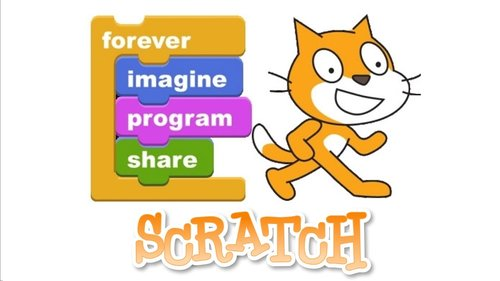
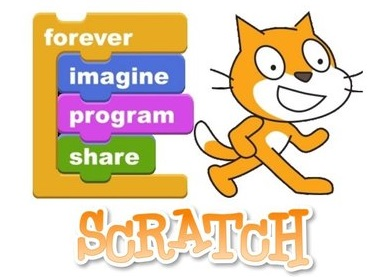
Overall optimization to dynamic website. Headers changed, scratchImage resized, other changes

diff --git a/infoSite/templates/classes.html b/infoSite/templates/classes.html
@@ -3,8 +3,9 @@
 {% block body %}
     <h1 class="pageTitle">Classes</h1>
     <div id="classHeader">
-        <p>Right now we are providing three classes, their descriptions are below.
+        <p id="classDescription">Right now we are providing three classes, their descriptions are below.
         </p>
+
         <ul id="infolist">
             <li>All classes are offered for ages 11-14</li>
             <li>Classes will take place on Mondays and Wednesdays from July 18th to August 3rd
@@ -19,19 +20,9 @@
                     <li>Drawing: 3:00 pm to 4:20 pm</li>
                 </ul>
             </li>
-
         </ul>
     </div>
     <div id="classList">
-        <div id="PremierePro" class="classItemWrap">
-            <h1 class="classItemTitle">Film Making</h1>
-            <div class="classItem">
-                <img src="{% static 'resources/clapperopen.png' %}" alt="open clapperboard" class="classImage">
-                 <p>
-                    Have you ever wanted to be a superhero? With Premiere Pro you can be! In this course you will learn the basics of Premiere Pro, including keyframes, masking, and special effects. In addition to learning about the digital side of filmmaking, we will also explore the practical side, using miniatures, gravity, and green screens to our advantage. The course will culminate with you making a visual effects shot with any superpower of your choosing.
-                 </p>
-             </div>
-        </div>
         <div class="classItemWrap">
             <h1 class="classItemTitle">Coding</h1>
              <div class="classItem">
@@ -46,6 +37,16 @@
              </div>
 
         </div>
+        <div id="PremierePro" class="classItemWrap">
+            <h1 class="classItemTitle">Film Making</h1>
+            <div class="classItem">
+                <img src="{% static 'resources/clapperopen.png' %}" alt="open clapperboard" class="classImage">
+                 <p>
+                    Have you ever wanted to be a superhero? With Premiere Pro you can be! In this course you will learn the basics of Premiere Pro, including keyframes, masking, and special effects. In addition to learning about the digital side of filmmaking, we will also explore the practical side, using miniatures, gravity, and green screens to our advantage. The course will culminate with you making a visual effects shot with any superpower of your choosing.
+                 </p>
+             </div>
+        </div>
+
         <div class="classItemWrap">
             <h1 class="classItemTitle">Art</h1>
              <div class="classItem">

diff --git a/infoSite/static/styles/about-us.css b/infoSite/static/styles/about-us.css
@@ -1,20 +1,20 @@
 /*ABOUT US PAGE*/
 .pageTitle {
     text-align: center;
-    font-size:12vw;
-    margin-top: 80px;
+    font-size:6vw;
+    margin-top: 40px;
 }
 h2 {
-    font-size:4vw;
+    font-size:5vw;
 }
 #firstbio {
-    margin-top: 10%;
+    margin-top: 3%;
 }
 
 .bio {
     display: flex;
     flex-flow: row nowrap;
-    margin: 15% 10%;
+    margin: 5% 10%;
 
     /*box-sizing: border-box;*/
 }
@@ -28,6 +28,7 @@ h2 {
     display: flex;
     flex-direction: column;
     align-items: flex-end;
+    padding:3vw;
 }
 
 
@@ -52,7 +53,7 @@ h2 {
 
 .bio p {
     white-space: normal;
-    font-size: 2rem;
+    font-size: 1.8vw;
 }
 
 /*.clapperboard {
@@ -78,8 +79,7 @@ h2 {
     }
 
     .biotextwrap {
-        padding-left: 0 !important;
-        padding-right: 0 !important;
+        padding: 0px !important;
     }
 
     .nameandpic {
@@ -103,9 +103,5 @@ h2 {
         font-size: 8vw
     }
 
-    .pageTitle {
-        font-size: 13vw;
-        margin-top: 15%;
-    }
 }
 

diff --git a/infoSite/static/styles/classes.css b/infoSite/static/styles/classes.css
@@ -10,6 +10,11 @@
 
 #classHeader ul {
     /*display: inline-block;*/
+    margin-left:10%;
+}
+#classDescription {
+    text-align: center;
+    font-size:30px;
 }
 
 #classHeader li {
@@ -31,6 +36,7 @@
 .classImage {
     height:300px;
     width: 300px;
+    margin:auto;
 /*    margin:20px;*/
 }
 
@@ -47,11 +53,11 @@ iframe {
     margin-left:5%;
     margin-right:5%;
     text-align: center;
-    justify-content: center;
+
 }
 
 .classItemWrap {
-    margin-top: 100px;
+    margin-top: 20px;
 }
 
 .classItem {
@@ -88,7 +94,7 @@ p {
     }
 
     .classImage {
-        margin: 5vw 10vw;
+        padding-bottom: 20px;
         width: 60vw;
         height: 60vw;
     }
@@ -96,5 +102,17 @@ p {
     #scratch-img {
         height: 50vw;
         width: 80vw;
+    }
+    #classHeader {
+        margin-right:7%;
+        width:94%;
+    }
+
+    #classDescription {
+        font-size:4vw;
+    }
+
+    #classHeader li {
+        font-size:3vw;
     }
 }

diff --git a/infoSite/templates/index.html b/infoSite/templates/index.html
@@ -2,12 +2,12 @@
 {% load static %}
 {% block body %}
     <div class="">
-        <h1 id="welcome" class="pageTitle">Welcome to the Caravel Project!</h1>
+        <h1 id="welcome" >Welcome to the Caravel Project!</h1>
         <div>
             <h3 class="tagline">Our mission is to teach and our vision is to spark new interests.</h3>
         </div>
     </div>
-
+     <img id="scratch-img" src="{% static 'resources/seaofthieves.jpg' %}" alt="lols" class="classImage" >
 
 
 {% endblock %}

diff --git a/infoSite/static/styles/index.css b/infoSite/static/styles/index.css
@@ -1,9 +1,12 @@
 #welcome {
-    font-size:8vw;
+    font-size:4.5vw;
     font-weight:bold;
+    margin-top:30px;
+    text-align:center;
 }
 
 .tagline {
-    font-size:4vw;
+    font-size:2vw;
     padding:20px;
+
 }
